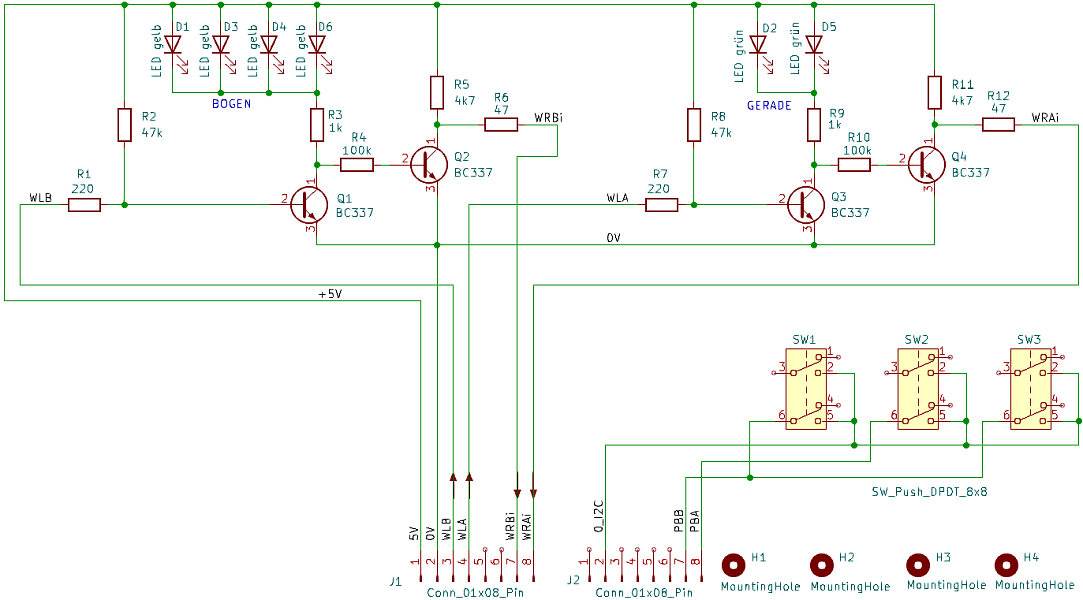
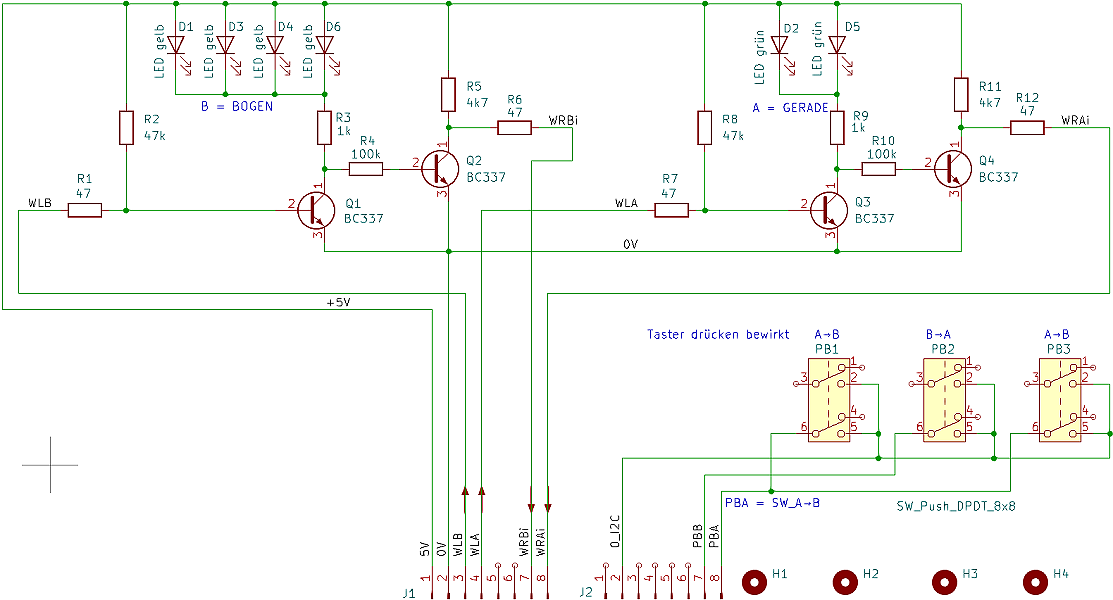
Update LIESMICH.md

diff --git a/fab/rcc4_block/LIESMICH.md b/fab/rcc4_block/LIESMICH.md
@@ -153,7 +153,7 @@ _Bild 17: L&ouml;tseite der best&uuml;ckten Platine "RW_5V_W2_LED" zum Schalten 
 |    2   | J1,J2             | Buchsenleiste 8-polig mit langen Kontakten (Conn_01x08_Pin) | _kh_library:PinSocket_1x08_P2.54mm_Vertical_kh     |   
 |    4   | Q1,Q2,Q3,Q4       | Transistor BC337-40 | _kh_library:TO-92_Inline_Wide_custom |   
 |    2   | R6, <br> R12           | 47 &Omega;          | Resistor_THT:R_Axial_DIN0204_L3.6mm_D1.6mm_P2.54mm_Vertical <br> _kh_library:R_Axial_DIN0204_L3.6mm_D1.6mm_P3.81mm_Vertical_kh |   
-|    2   | R1,<br> R7    | 100 &Omega; (47 &Omega;) | _kh_library:R_Axial_DIN0204_L3.6mm_D1.6mm_P3.81mm_Vertical_kh <br> _kh_library:R_Axial_DIN0204_L3.6mm_D1.6mm_P2.54mm_Vertical_kh |   
+|    2   | R1,<br> R7    | 47 &Omega; (100 &Omega;) | _kh_library:R_Axial_DIN0204_L3.6mm_D1.6mm_P3.81mm_Vertical_kh <br> _kh_library:R_Axial_DIN0204_L3.6mm_D1.6mm_P2.54mm_Vertical_kh |   
 |    2   | R3,R9             | 1 k&Omega;       | Resistor_THT:R_Axial_DIN0204_L3.6mm_D1.6mm_P2.54mm_Vertical |   
 |    2   | R5,R11            | 4,7 k&Omega;     | Resistor_THT:R_Axial_DIN0204_L3.6mm_D1.6mm_P2.54mm_Vertical |   
 |    2   | R2,R8             | 47 k&Omega;      | Resistor_THT:R_Axial_DIN0204_L3.6mm_D1.6mm_P2.54mm_Vertical |   
@@ -194,8 +194,8 @@ Auf die _*L&ouml;tseite*_ l&ouml;ten:
 
 ## 2.3 Zusammenbau des W2-Blocks
 1. Aufstecken des Steuerungsprints `RW_5V_W2_STRG` auf die Anzeigeplatine `RW_5V_W2_LED`.   
-2. Einstecken der LEDs. F&uuml;r alle LEDs gilt: Anode = Pluspol = rot markiert immer __nach au&szlig;en__ zum Leiterplattenrand.   
-3. Aufstecken der Schalter-Kn&ouml;pfe (Mitte gr&uuml;n, au&szlig;en gelb).   
+2. Aufstecken der Schalter-Kn&ouml;pfe (Mitte gr&uuml;n, au&szlig;en gelb).   
+3. Einstecken der LEDs. F&uuml;r alle LEDs gilt: Anode = Pluspol = rot markiert immer __nach au&szlig;en__ zum Leiterplattenrand.   
 4. Falls vorhanden: Print `RW_LEER_LED` auf den Anzeigeprint stecken.   
 
 ### 2.4 Test des W2-Blocks   
@@ -275,14 +275,13 @@ _Bild 22: Verkabelung zum Testen der R&uuml;ckmeldung eines W2-Blocks_
    * Die R&uuml;ckmeldeleitung J4-8 (WRB) liegt auf 0 V (0,7 V).   
 
 ### Test unter realen Bedingungen
-1. Anschluss des Weichenantriebs an J5-Pin 3 (V-), J5-Pin 1 (WA) und J5-Pin 5 (WB).   
-2. Anschluss der 6-poligen Stromversorgung an J3 der Steuerungsplatine _RW_5V_1OUT_STRG_:   
+1. Anschluss der 6-poligen Stromversorgung an J3 der Steuerungsplatine _RW_5V_1OUT_STRG_:   
    * Beide LED leuchten.   
-3. Anschluss der Zweiwegweiche an Pin 1, Pin 3 und Pin 5 von J5 der Steuerungplatine _RW_5V_W2_STRG_ (siehe Bild unten).   
+2. Anschluss der Zweiwegweiche an Pin 1, Pin 3 und Pin 5 von J5 der Steuerungplatine _RW_5V_W2_STRG_ .   
    * Eine der beiden LEDs leuchtet je nach Stellung der Weiche.   
-4. Bet&auml;tigen des Tasters SW2 (Print-Mitte): Stellen der Weiche auf "Gerade", LED 2 oder LED 5 leuchtet.   
-5. Bet&auml;tigen des Tasters SW1 oder SW3: Stellen der Weiche auf "Abzweig", die andere LED leuchtet.   
-6. Anschluss der Steuer- und R&uuml;ckmeldeleitungen an J4:   
+3. Bet&auml;tigen des Tasters SW2 (Print-Mitte): Stellen der Weiche auf "Gerade", LED 2 oder LED 5 leuchtet.   
+4. Bet&auml;tigen des Tasters SW1 oder SW3: Stellen der Weiche auf "Abzweig", die andere LED leuchtet.   
+5. Anschluss der Steuer- und R&uuml;ckmeldeleitungen an J4:   
    * Weichensteuerung &uuml;ber DCC und MQTT ist m&ouml;glich.   
 
 ![Pinbelegung_W2-J5](/images/200_J5_pins_W2.png "Pinbelegung W2-J5")   
@@ -323,6 +322,10 @@ _Bild 26: Best&uuml;ckte Platine "RW_5V_W3_STRG" zum Schalten der Weichen_
 |    3   | R1,R3,R5          | 100 k&Omega;      | Resistor_THT:R_Axial_DIN0204_L3.6mm_D1.6mm_P2.54mm_Vertical |   
    
 
+"RW_5V_W3_STRG"-Platine mit bereits vorgebogenen Bauteilen:   
+![RW_5V_W3_STRG_parts](/images/300_RW_5V_W3_STRG_parts.png "RW_5V_W3_STRG_parts")   
+_Bild 27: Bauteile der "RW_5V_W3_STRG"-Platine_   
+
 ### Best&uuml;ckung   
 1. Relais K1 bis K4   
 2. Dioden D1 bis D15   
@@ -344,18 +347,19 @@ _Bild 26: Best&uuml;ckte Platine "RW_5V_W3_STRG" zum Schalten der Weichen_
 Diese Platine dient zum Bedienen einer Dreiwegweiche (Richtung links - Mitte - rechts) und zur Anzeige der tats&auml;chlichen Weichenstellung.   
 
 ![RW_5V_W3_LED_circuit](/images/600_RW_5V_W3_LED_V4_circuit.png "RW_5V_W3_LED_circuit")   
-_Bild 19: Schaltplan der "RW_5V_W3_LED"-Platine_   
+_Bild 28: Schaltplan der "RW_5V_W3_LED"-Platine_   
 
 ![RW_5V_W3_LED](/images/pcb_f/PCB_F_RW_5V_W3_LED_V3.png "RW_5V_W3_LED")   
-_Bild 20: Platine "RW_5V_W3_LED" zum Schalten und zur Anzeige der Weichenstellung_   
+_Bild 29: Platine "RW_5V_W3_LED" zum Schalten und zur Anzeige der Weichenstellung_   
 
 ![RW_5V_W3_LED_V3](/images/300_RW_5V_W3_LED.png "RW_5V_W3_LED")   
-_Bild 21: Best&uuml;ckte Platine "RW_5V_W3_LED" zum Schalten und zur Anzeige der Weichenstellung_   
+_Bild 30: Best&uuml;ckte Platine "RW_5V_W3_LED" zum Schalten und zur Anzeige der Weichenstellung_   
 
 ### St&uuml;ckliste   
 | Anzahl | Referenz          | Wert                | Geh&auml;use            |   
 |--------|-------------------|---------------------|--------------------|   
-|    3   | D1,D2,D3 (1)      | LED gr&uuml;n 2 mA       | LED_THT:LED_D3.0mm |   
+|    1   | D2 (1)            | LED gr&uuml;n 2 mA  | LED_THT:LED_D3.0mm |   
+|    2   | D1,D3 (1)         | LED gelb 2 mA       | LED_THT:LED_D3.0mm |   
 |    6   | D1,D2,D3 (D4,D5,D6) | Buchsenleiste 2-polig mit gedrehten Pins | "Fassung" f&uuml;r LEDs |   
 |    2   | J1,J2             | Buchsenleiste 8-polig mit langen Kontakten (Conn_01x08_Pin) | _kh_library:PinSocket_1x08_P2.54mm_Vertical_kh     |   
 |    2   | J3,J4             | Stiftleiste 2polig  | _kh_library:PinSocket_1x02_P2.54mm_Vertical_kh |   
@@ -378,6 +382,9 @@ _Bild 21: Best&uuml;ckte Platine "RW_5V_W3_LED" zum Schalten und zur Anzeige der
 2. Die LED-Anschl&uuml;sse entsprechend [Kapitel 1.4](#x14) abschneiden und biegen.   
 3. 10 mm-Tasterkn&ouml;pfe SW1, SW3 (gelb), SW2 (gr&uuml;n) eventuell verl&auml;ngern durch Aufkleben mit Sekundenkleber auf 7 mm-Tasterkn&ouml;pfe.   
 
+![RW_5V_W3_LED_parts](/images/300_RW_5V_W3_LED_parts.png "RW_5V_W3_STRG_parts")   
+_Bild 31: Bauteile der "RW_5V_W3_LED"-Platine_   
+
 ### Best&uuml;ckung   
 1. Die zweipoligen Buchsenleisten (D1 bis D3 und/oder D4 bis D6) mit gedrehten Pins auf die _L&ouml;tseite_ des Prints l&ouml;ten.   
 
@@ -391,18 +398,99 @@ Auf die _*Bauteilseite*_ l&ouml;ten:
 Auf die _*L&ouml;tseite*_ l&ouml;ten:   
 
 6. Taster SW1 bis SW3   
-   
-### Test   
-1. Einstecken der LEDs, rot markierte Anode = Pluspol zeigt immer nach au&szlig;en zum Leiterplattenrand.   
-2. Aufsetzen des Prints _RW_5V_W3_LED_ auf die Steuerungsplatine _RW_5V_W3_STRG_.   
-3. Anschluss der 6-poligen Stromversorgung an J3 der Steuerungsplatine _RW_5V_W3_STRG_.   
-4. Anschluss der beiden Weichenantriebe der Dreiwegweiche an Pin 1-3-5 bzw. Pin 2-4-6 von J5 der Steuerungplatine _RW_5V_W3_STRG_ (siehe Bild 22 unten).   
-5. Bet&auml;tigen des Tasters SW2 (Print-Mitte): Stellen der Weiche auf "Gerade", die mittlere LED links (oder rechts) leuchtet.   
-6. Bet&auml;tigen des Tasters SW1 (oben): Stellen der Weiche auf "links", die LED rechts oben (oder links unten) leuchtet.   
-7. Bet&auml;tigen des Tasters SW3 (unten): Stellen der Weiche auf "rechts", die LED rechts unten (oder links oben) leuchtet.   
+
+7. Jumper setzen
+
+<a name="x33"></a>   
+
+## 3.3 Zusammenbau des W3-Blocks
+1. Aufstecken des Steuerungsprints `RW_5V_W3_STRG` auf die Anzeigeplatine `RW_5V_W3_LED`.   
+2. Aufstecken der Schalter-Kn&ouml;pfe (Mitte gr&uuml;n, au&szlig;en gelb).   
+3. Einstecken der LEDs. F&uuml;r alle LEDs gilt: Anode = Pluspol = rot markiert immer __nach au&szlig;en__ zum Leiterplattenrand.   
+4. Falls vorhanden: Print `RW_LEER_LED` auf den Anzeigeprint stecken.   
+
+### 3.4 Test des W3-Blocks   
+Das Ersatzschaltbild einer endabgeschalteten Weiche sind zwei Spulen mit einem Umschalter. Siehe dazu Kapitel 2.4.   
+
+### "Labor-Test" mit 5V und ohne Weichenantrieb
+Das Testen der W3-Schaltblocks ohne Verwendung einer Weiche bzw. zweier Weichenantriebe muss in zwei Phasen durchgef&uuml;hrt werden: Test des Schaltens (= Anlegen einer Spannung) und Test der R&uuml;ckmeldung (LED-Anzeige, R&uuml;ckmeldeleitungen).   
+F&uuml;r diesen Test ben&ouml;tigt man ein 5V-Netzteil, 4 St&uuml;ck einzelne Kabel Stecker auf Buchse, 5 St&uuml;ck einzelne Kabel Stecker - Stecker, ein 6-poliges Flachbandkabel, ein 10-poliges Flachbandkabel sowie ein Voltmeter.    
+Die Buchsen der Leitungen k&ouml;nnen direkt auf die Stifte des 6-poligen Wannensteckers J3 gesteckt werden und dienen der Spannungsversorgung f&uuml;r beide Tests:   
+* rot: 5 V vom Netzteil nach J3-1 (5V)   
+* rot: 5 V vom Netzteil nach J3-6 (V+)   
+* braun: 0 V vom Netzteil nach J3-3 (0V)   
+* braun: 0 V vom Netzteil nach J3-4 (V-)   
+Die Flachbandkabel werden an J4 (10-polig) und J5 (6-polig) abgesteckt.   
+
+#### Test des Schaltvorgangs eines W3-Blocks
+Die Verkabelung entsprechend dem Bild durchf&uuml;hren:   
+* WL von J5-1 zum Voltmeter +   
+* V- von J5-3 zum Voltmeter COM (-)   
+
+![W3 Testverkabelung Schalten](/images/300_W3_test_wiring_switch.png "W3 Testverkabelung Schalten")   
+_Bild 32: Verkabelung zum Testen des Schaltvorgangs eines W3-Blocks_   
+
+1. Anlegen der 5V-Spannung:   
+   * Alle drei LED leuchten.   
+   * Die Spannungen an J5-1 (WL), J5-2 (WR), J5-5 (WML) und J5-6 (WMR) sind 0 V (0,65 V).   
+2. Dr&uuml;cken des oberen, gelben Tasters ("Links"):   
+   * Alle drei LED leuchten.   
+   * Die Spannung an J5-1 (WL) und J5-6 (WMR) ist 5 V   
+   * Die Spannung an J5-2 (WR) und J5-5 (WML) und ist 0 V   
+   ("Kreuzweise" 5V am Stecker J5)   
+3. Dr&uuml;cken des mittleren, gr&uuml;nen Tasters ("Mitte"):   
+   * Alle drei LED leuchten.   
+   * Die Spannung an J5-1 (WL) und J5-2 (WR) ist 0 V   
+   * Die Spannung an J5-5 (WML) und J5-6 (WMR) ist 5 V   
+4. Dr&uuml;cken des unteren, gelben Tasters ("Rechts"):   
+   * Alle drei LED leuchten.   
+   * Die Spannung an J5-1 (WL) und J5-6 (WMR) ist 0 V   
+   * Die Spannung an J5-2 (WR) und J5-5 (WML) und ist 5 V   
+   ("Kreuzweise" 5V am Stecker J5)   
+5. Pin J4-1 (WSL) auf 0V (J4-5): Gleiches Verhalten wie beim Drücken des oberen, gelben Tasters ("Links"). Siehe Punkt 2.   
+6. Pin J4-2 (WSM) auf 0V (J4-5): Gleiches Verhalten wie beim Drücken des mittleren, grünen Tasters ("Mitte"). Siehe Punkt 3.   
+7. Pin J4-1 (WSR) auf 0V (J4-5): Gleiches Verhalten wie beim Drücken des unteren, gelben Tasters ("Rechts"). Siehe Punkt 4.   
+
+#### Test der R&uuml;ckmeldung eines W2-Blocks
+* WL von J5-1 zum Voltmeter +   
+* V- von J5-3 zum Voltmeter COM (-)   
+_Beachte_: Zur korrekten Funktion müssen immer zwei der drei Anschlüsse WR, WL und WM am Stecker J5 (= WML + WMR) auf 0 V liegen. Zum Verteilen der 0 V kann zB auch ein Steckbrett verwendet werden...   
+
+![W3 Testverkabelung R&uuml;ckmeldung](/images/300_W3_test_wiring_LED.png "W3 Testverkabelung R&uuml;ckmeldung")   
+_Bild 33: Verkabelung zum Testen der R&uuml;ckmeldung eines W3-Blocks_   
+
+1. Anlegen der 5V-Spannung:   
+   * Alle drei LED leuchten.   
+   * Die Spannungen an J4-7 (WRL), J4-8 (WRM) und J4-9 (WRR) sind 5 V.   
+2. J5-3 (V-) mit J5-2 (WR) und J5-5 (WML) verbinden:   
+   * Nur die obere, gelbe LED leuchtet.   
+   * Die R&uuml;ckmeldeleitung J4-7 (WRL) liegt auf 5 V.   
+   * Die R&uuml;ckmeldeleitung J4-8 (WRM) liegt auf 0 V (0,7 V).   
+   * Die R&uuml;ckmeldeleitung J4-9 (WRR) liegt auf 0 V (0,7 V).   
+3. J5-3 (V-) mit J5-2 (WR) und J5-1 (WL) verbinden:   
+   * Nur die mittlere, grüne LED leuchtet.   
+   * Die R&uuml;ckmeldeleitung J4-7 (WRL) liegt auf 0 V (0,7 V).   
+   * Die R&uuml;ckmeldeleitung J4-8 (WRM) liegt auf 5 V.   
+   * Die R&uuml;ckmeldeleitung J4-9 (WRR) liegt auf 0 V (0,7 V).   
+4. J5-3 (V-) mit J5-1 (WL) und J5-6 (WMR) verbinden:   
+   * Nur die untere, gelbe LED leuchtet.   
+   * Die R&uuml;ckmeldeleitung J4-7 (WRL) liegt auf 0 V (0,7 V).   
+   * Die R&uuml;ckmeldeleitung J4-8 (WRM) liegt auf 0 V (0,7 V).   
+   * Die R&uuml;ckmeldeleitung J4-9 (WRR) liegt auf 5 V.   
+
+### Test unter realen Bedingungen
+1. Anschluss des Weichenantriebs "Links" an J5-Pin 3 (V-), J5-Pin 1 (WL) und J5-Pin 5 (WML). Es muss sichergestellt sein, dass durch J5-5 die Weiche auf "Mitte" ("Gerade") gestellt wird!   
+2. Anschluss des Weichenantriebs "Rechts" an J5-Pin 4 (V-), J5-Pin 2 (WR) und J5-Pin 6 (WMR). Es muss sichergestellt sein, dass durch J5-5 die Weiche auf "Mitte" ("Gerade") gestellt wird!   
+3. Anschluss der 6-poligen Stromversorgung an J3 der Steuerungsplatine _RW_5V_1OUT_STRG_:   
+   * Eine der drei LED leuchtet, je nach Stellung der Weiche.   
+4. Bet&auml;tigen des Tasters SW2 (Print-Mitte): Stellen der Weiche auf "Gerade", LED 2 oder LED 5 leuchtet.   
+5. Bet&auml;tigen des Tasters SW1 (oben): Stellen der Weiche auf "Links", die obere LED leuchtet.   
+6. Bet&auml;tigen des Tasters SW3 (unten): Stellen der Weiche auf "Rechts", die untere LED leuchtet.   
+7. Anschluss der Steuer- und R&uuml;ckmeldeleitungen an J4:   
+   * Weichensteuerung &uuml;ber DCC und MQTT ist m&ouml;glich.   
 
 ![Pinbelegung_W3-J5](/images/200_J5_pins_W3.png "Pinbelegung W3-J5")   
-_Bild 22: Pinbelegung des Steckers J5 von RW_5V_W3_STRG_   
+_Bild 34: Pinbelegung des Steckers J5 von RW_5V_W3_STRG_   
 
 ### Versionen
 * V1 (240930): Keine Aufnahmebohrungen, VCCi2c auf J2-Pin 1 herausgef&uuml;hrt, Keine Jumper zum Tauschen der Funktion von SW1 mit SW3.   
@@ -419,13 +507,13 @@ _Bild 22: Pinbelegung des Steckers J5 von RW_5V_W3_STRG_
 Diese Platine dient zum Schalten der Versorgungsspannung f&uuml;r den Entkuppler von Hand oder &uuml;ber den I²C-Bus. Der Schaltvorgang erfolgt &uuml;ber ein Relais, die R&uuml;ckmeldung erfolgt &uuml;ber einen Optokoppler.   
 
 ![RW_5V_1OUT_STRG_circuit](/images/600_RW_5V_1OUT_STRG_circuit.png "RW_5V_1OUT_STRG_circuit")   
-_Bild 23: Schaltplan der "RW_5V_1OUT_STRG"-Platine_   
+_Bild 35: Schaltplan der "RW_5V_1OUT_STRG"-Platine_   
 
 ![RW_5V_1OUT_STRG](/images/pcb_f/PCB_F_RW_5V_1OUT_STRG_V1.png "RW_5V_1OUT_STRG_V1")   
-_Bild 24: Platine "RW_5V_1OUT_STRG" zum Bet&auml;tigen eines Entkupplers_   
+_Bild 36: Platine "RW_5V_1OUT_STRG" zum Bet&auml;tigen eines Entkupplers_   
 
 ![RW_5V_1OUT_STRG](/images/300_RW_5V_1OUT_STRG_V1.png "RW_5V_1OUT_STRG")   
-_Bild 25: Best&uuml;ckte Platine "RW_5V_1OUT_STRG" zum Bet&auml;tigen eines Entkupplers_   
+_Bild 37: Best&uuml;ckte Platine "RW_5V_1OUT_STRG" zum Bet&auml;tigen eines Entkupplers_   
 
 ### St&uuml;ckliste   
 | Anzahl | Referenz          | Wert                | Geh&auml;use            |   
@@ -450,7 +538,7 @@ _Bild 25: Best&uuml;ckte Platine "RW_5V_1OUT_STRG" zum Bet&auml;tigen eines Entk
    
 
 ![RW_5V_1OUT_STRG_parts](/images/300_RW_5V_1OUT_STRG_parts.png "RW_5V_1OUT_STRG_parts")   
-_Bild 26: Bauteile der "RW_5V_1OUT_STRG"-Platine (ein 4k7-Widerstand fehlt)_   
+_Bild 38: Bauteile der "RW_5V_1OUT_STRG"-Platine (ein 4k7-Widerstand fehlt)_   
 
 ### Best&uuml;ckung   
 1. IC-Fassung U1 4-polig (oder 2x Buchsenleiste mit 2 Pins)   
@@ -477,14 +565,14 @@ Im Ruhezustand leuchtet die rote LED (D1).
 Dr&uuml;ckt man den Taster, so leuchten die gelbe (D5) und gr&uuml;ne LED (D3) und J6-Pin 1 (S0) geht auf 0V.   
 
 ![RW_5V_1OUT_LED_circuit](/images/600_RW_5V_1OUT_LED_circuit.png "RW_5V_W3_1OUT_circuit")   
-_Bild 27: Schaltplan der "RW_5V_1OUT_LED"-Platine_   
+_Bild 39: Schaltplan der "RW_5V_1OUT_LED"-Platine_   
 
 ![RW_5V_1OUT_LED](/images//pcb_f/PCB_F_RW_5V_1OUT_LED_V2.png "RW_5V_1OUT_LED")   
-_Bild 28: Platine "RW_5V_1OUT_LED" zum Schalten und zur Anzeige des gedr&uuml;ckten Tasters_   
+_Bild 40: Platine "RW_5V_1OUT_LED" zum Schalten und zur Anzeige des gedr&uuml;ckten Tasters_   
 
 Das folgende Bild zeigt die best&uuml;ckte Platine "RW_5V_1OUT_LED". Auf der Unterseite sieht man Teile der gelben und roten LED sowie des gelben Knopfes des Tasters.   
 ![pcb RW_5V_1OUT_LED](/images/300_RW_5V_1OUT_LED.png "pcb RW_5V_1OUT_LED")   
-_Bild 29: Die best&uuml;ckte "RW_5V_1OUT_LED"-Platine_   
+_Bild 41: Die best&uuml;ckte "RW_5V_1OUT_LED"-Platine_   
 
 ### St&uuml;ckliste   
 | Anzahl | Referenz          | Wert                | Geh&auml;use            |   
@@ -508,7 +596,7 @@ _Bild 29: Die best&uuml;ckte "RW_5V_1OUT_LED"-Platine_
 3. 10 mm-Tasterknopf SW2 (wei&szlig;) eventuell verl&auml;ngern durch Aufkleben mit Sekundenkleber auf 7 mm-Tasterkn&ouml;pfe.   
 
 ![RW_5V_1OUT_LED_parts](/images/300_RW_5V_1OUT_LED_parts.png "RW_5V_1OUT_LED_parts")   
-_Bild 30: Bauteile der "RW_5V_1OUT_LED"-Platine_   
+_Bild 42: Bauteile der "RW_5V_1OUT_LED"-Platine_   
 
 ### Best&uuml;ckung   
 1. Die zweipoligen Buchsenleisten mit gedrehten Pins (D1, D3, D5) auf die _L&ouml;tseite_ des Prints l&ouml;ten.   
@@ -549,7 +637,7 @@ _Zum Beispiel:_
 * gelb: R1 von J4-7 zum Voltmeter COM (-)   
 
 ![1OUT Testverkabelung](/images/300_1OUT_test_wiring.png "1OUT Testverkabelung") &nbsp; ![1OUT Testverkabelung2](/images/300_1OUT_test_wiring_img2.png "1OUT Testverkabelung2")   
-_Bild 31: Verkabelung zum Testen des 1OUT-Blocks_   
+_Bild 43: Verkabelung zum Testen des 1OUT-Blocks_   
 
 Statt der beiden eingezeichneten Voltmeter kann nat&uuml;rlich auch nur eines verwendet werden.   
 
@@ -569,7 +657,7 @@ __Im Fehlerfall__, falls die Versorgungs-(Wechsel-)spannung V+ ausf&auml;llt, le
 3. Bet&auml;tigen des Tasters: der Entkuppler sollte arbeiten.   
 
 ![Pinbelegung_1OUT-J5](/images/200_J5_pins_1OUT.png "Pinbelegung 1OUT-J5")   
-_Bild 32: Pinbelegung des Steckers J5 von RW_5V_1OUT_STRG_   
+_Bild 44: Pinbelegung des Steckers J5 von RW_5V_1OUT_STRG_   
 
 ### Versionen
 * V1 (241022): spiegelverkehrte Anordnung der LEDs.   
@@ -584,13 +672,13 @@ _Bild 32: Pinbelegung des Steckers J5 von RW_5V_1OUT_STRG_
 Diese Platine dient zum Ein- und Ausschalten des Fahrstroms f&uuml;r ein Gleis von Hand oder &uuml;ber den I²C-Bus. Der Schaltvorgang erfolgt &uuml;ber ein Relais, die R&uuml;ckmeldung erfolgt &uuml;ber einen Optokoppler.   
 
 ![RW_5V_2IO_STRG_circuit](/images/600_RW_5V_2IO_STRG_circuit.png "RW_5V_2IO_STRG_circuit")   
-_Bild 33: Schaltplan der "RW_5V_2IO_STRG"-Platine_   
+_Bild 45: Schaltplan der "RW_5V_2IO_STRG"-Platine_   
 
 ![Platine Fahrstrom-Abschaltung](/images/pcb_f/PCB_F_RW_5V_2IO_STRG_V1.png "Platine Fahrstrom-Abschaltung")   
-_Bild 34: Platine zum Schalten des Fahrstroms_   
+_Bild 46: Platine zum Schalten des Fahrstroms_   
 
 ![RW_5V_2IO_STRG](/images/300_RW_5V_2IO_STRG_V1.png "RW_5V_2IO_STRG")   
-_Bild 35: Best&uuml;ckte Platine "300_RW_5V_2IO_STRG" zum Schalten des Fahrstroms_   
+_Bild 47: Best&uuml;ckte Platine "300_RW_5V_2IO_STRG" zum Schalten des Fahrstroms_   
 
 __St&uuml;ckliste__   
 | Anzahl | Referenz     | Wert                   | Geh&auml;use            |   
@@ -615,7 +703,7 @@ __St&uuml;ckliste__
    
 
 ![RW_5V_2IO_STRG_parts](/images/300_RW_5V_2IO_STRG_parts.png "RW_5V_2IO_STRG_parts")   
-_Bild 36: Bauteile der "RW_5V_2IO_STRG"-Platine_   
+_Bild 48: Bauteile der "RW_5V_2IO_STRG"-Platine_   
 
 ### Best&uuml;ckung   
 1. IC-Fassung 4-polig (oder 2x Buchsenleiste mit 2 Pins)   
@@ -644,13 +732,13 @@ Im Ruhezustand (beide _*Schalter*_ nicht gedr&uuml;ckt) leuchtet die gelbe LED u
 Wird der Schalter "AUS" bet&auml;tigt, ist der Fahrstrom auf jeden Fall ausgeschaltet, bei "EIN" (ohne "AUS") ist der Fahrstrom eingeschaltet. Sind beide Schalter nicht bet&auml;tigt, erfolgt die Steuerung &uuml;ber den I²C-Bus.   
 
 ![RW_5V_2IO_LED_circuit](/images/600_RW_5V_2IO_LED_circuit.png "RW_5V_2IO_LED_circuit")   
-_Bild 37: Schaltplan der "RW_5V_2IO_LED"-Platine_   
+_Bild 49: Schaltplan der "RW_5V_2IO_LED"-Platine_   
 
 ![Platine 2-poliges Schalten](/images/pcb_f/PCB_F_RW_5V_2IO_LED_V2.png "Platine 2-poliges Schalten")   
-_Bild 38: Platine zum Schalten des Fahrstroms_   
+_Bild 50: Platine zum Schalten des Fahrstroms_   
 
 ![RW_5V_2IO_LED](/images/300_RW_5V_2IO_LED.png "RW_5V_2IO_LED")   
-_Bild 39: Best&uuml;ckte Platine "RW_5V_2IO_LED"_   
+_Bild 51: Best&uuml;ckte Platine "RW_5V_2IO_LED"_   
 
 ### St&uuml;ckliste   
 | Anzahl | Referenz          | Wert                | Geh&auml;use            |   
@@ -675,7 +763,7 @@ _Bild 39: Best&uuml;ckte Platine "RW_5V_2IO_LED"_
 
 Das folgende Bild zeigt die Bauteile und die bereits vorbereiteten LEDs und Widerst&auml;nde.   
 ![RW_5V_2IO_LED_parts](/images/300_RW_5V_2IO_LED_parts.png "RW_5V_2IO_LED_parts")   
-_Bild 40: Bauteile der "RW_5V_2IO_LED"-Platine_   
+_Bild 52: Bauteile der "RW_5V_2IO_LED"-Platine_   
 
 ### Best&uuml;ckung   
 1. Die zweipoligen Buchsenleisten mit gedrehten Pins (D1, D3, D4, D5, D6) auf die _L&ouml;tseite_ des Prints l&ouml;ten.   
@@ -719,7 +807,7 @@ _Zum Beispiel:_
 * gelb: R1 von J4-7 zum Voltmeter COM (-)   
 
 ![2IO Testverkabelung](/images/300_2IO_test_wiring.png "2IO Testverkabelung") &nbsp; ![2IO Testverkabelung2](/images/300_2IO_test_wiring_img.png "2IO Testverkabelung2")   
-_Bild 41: Verkabelung zum Testen des 2IO-Blocks_   
+_Bild 53: Verkabelung zum Testen des 2IO-Blocks_   
 
 Statt der beiden eingezeichneten Voltmeter kann nat&uuml;rlich auch nur eines verwendet werden.   
 
@@ -740,7 +828,7 @@ Das bedeutet: Kein Ausgangssignal ergibt die R&uuml;ckmeldung R1 = 0 V.
 4. Funktionstest: wie oben beschrieben.   
 
 ![Pinbelegung_2IO-J5](/images/200_J5_pins_2IO.png "Pinbelegung 2IO-J5")   
-_Bild 42: Pinbelegung des Steckers J5 von RW_5V_2IO_STRG_   
+_Bild 54: Pinbelegung des Steckers J5 von RW_5V_2IO_STRG_   
 
 ### Versionen
 * V1 (241022): spiegelverkehrte Anordnung der LEDs.   
@@ -755,13 +843,13 @@ _Bild 42: Pinbelegung des Steckers J5 von RW_5V_2IO_STRG_
 Diese Platine dient zum zweipoligen Umschalten 2x Um (engl. Double Pole Double Throw, kurz DPDT) einer Spannung. Der Schaltvorgang erfolgt &uuml;ber ein Relais, die R&uuml;ckmeldung erfolgt &uuml;ber zwei Optokoppler (je einer f&uuml;r den Zustand NC = normally closed und NO = normally open).   
 
 ![RW_5V_DPDT_STRG_circuit](/images/600_RW_5V_DPDT_STRG_circuit.png "RW_5V_DPDT_STRG_circuit")   
-_Bild 43: Schaltplan der "RW_5V_DPDT_STRG"-Platine_   
+_Bild 55: Schaltplan der "RW_5V_DPDT_STRG"-Platine_   
 
 ![Platine DPDT](/images/pcb_f/PCB_F_RW_5V_DPDT_STRG_V1.png "Platine DPDT")   
-_Bild 44: Platine zum zweipoligen Umschalten einer Spannung_   
+_Bild 56: Platine zum zweipoligen Umschalten einer Spannung_   
 
 ![RW_5V_DPDT_STRG](/images/300_RW_5V_DPDT_STRG_V1.png "RW_5V_DPDT_STRG")   
-_Bild 45: Best&uuml;ckte Platine "300_RW_5V_DPDT_STRG" zum zweipoligen Umschalten_   
+_Bild 57: Best&uuml;ckte Platine "300_RW_5V_DPDT_STRG" zum zweipoligen Umschalten_   
 
 __St&uuml;ckliste__   
 | Anzahl | Referenz     | Wert                   | Geh&auml;use            |   
@@ -814,13 +902,13 @@ Diese Platine dient zum Ansteuern und Anzeigen der Zust&auml;nde der Schaltplati
 * eine gr&uuml;ne LED links unten zur Anzeige einer Ausgangsspannung an den Pins NO (normally open) J5-Pin 5 f&uuml;r Vout+ und J5-Pin 6 f&uuml;r Vout-
 
 ![RW_5V_DPDT_LED](/images/300_DPDT_LED_front.png "RW_5V_DPDT_LED") ![RW_5V_DPDT_LED](/images/300_DPDT_LED_back.png "RW_5V_DPDT_LED")     
-_Bild 46: Best&uuml;ckte Platine "RW_5V_DPDT_LED" (front und back)_   
+_Bild 58: Best&uuml;ckte Platine "RW_5V_DPDT_LED" (front und back)_   
 
 ![RW_5V_DPDT_LED_circuit](/images/600_RW_5V_DPDT_LED_circuit.png "RW_5V_DPDT_LED_circuit")   
-_Bild 47: Schaltplan der "RW_5V_DPDT_LED"-Platine_   
+_Bild 59: Schaltplan der "RW_5V_DPDT_LED"-Platine_   
 
 ![Platine 2-poliges Umschalten](/images/pcb_f/PCB_F_RW_5V_DPDT_LED_V1.png "Platine 2-poliges Umschalten")   
-_Bild 48: Bedien-Platine zum 2-poligen Umschalten_   
+_Bild 60: Bedien-Platine zum 2-poligen Umschalten_   
 
 ### St&uuml;ckliste   
 | Anzahl | Referenz          | Wert                | Geh&auml;use            |   
@@ -856,7 +944,7 @@ Auf die _*L&ouml;tseite*_ l&ouml;ten:
 ### Test   
 Die Eingangsspannung IN+ und IN- sowie die Ausgangsspannung NC ("Normally Closed") bzw. NO ("Normally Open") des DPDT-Blocks liegen am 6-poligen Stecker J5 von RW_5V_DPDT_STRG.   
 ![Pinbelegung_DPDT-J5](/images/200_J5_pins_DPDT.png "Pinbelegung DPDT-J5")   
-_Bild 49: Pinbelegung des Steckers J5 von RW_5V_DPDT_STRG_   
+_Bild 61: Pinbelegung des Steckers J5 von RW_5V_DPDT_STRG_   
 
 1. Einstecken der LEDs: Die rot markierte Anode = Pluspol zeigt immer nach au&szlig;en zum Leiterplattenrand.   
 2. Aufsetzen des Prints _RW_5V_DPDT_LED_ auf die Steuerungsplatine _RW_5V_DPDT_STRG_.   
